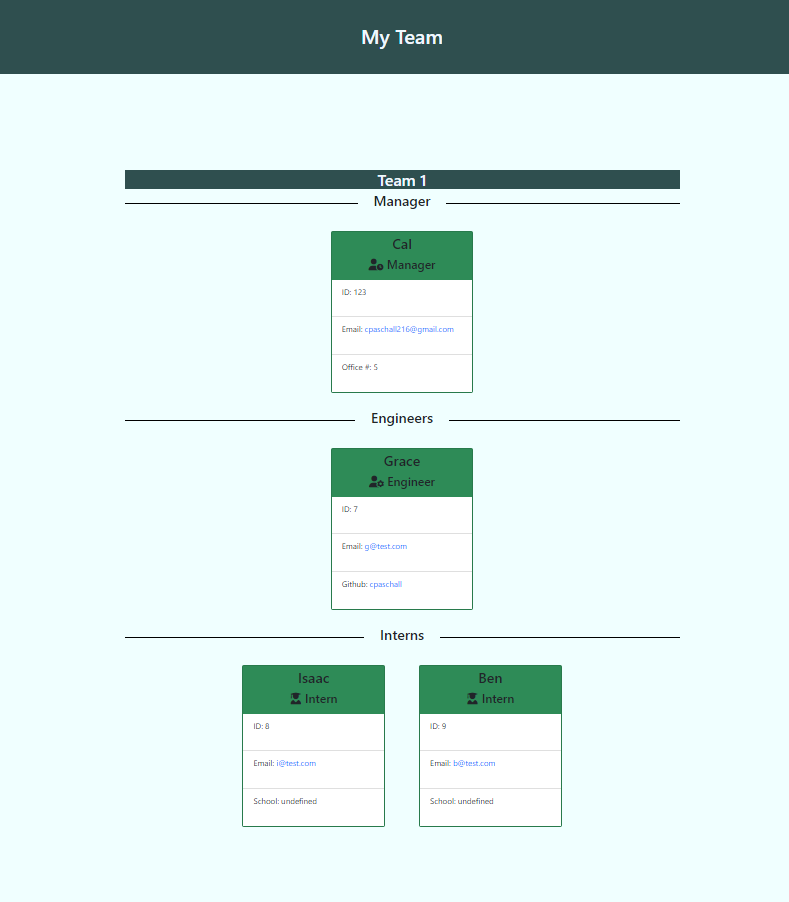
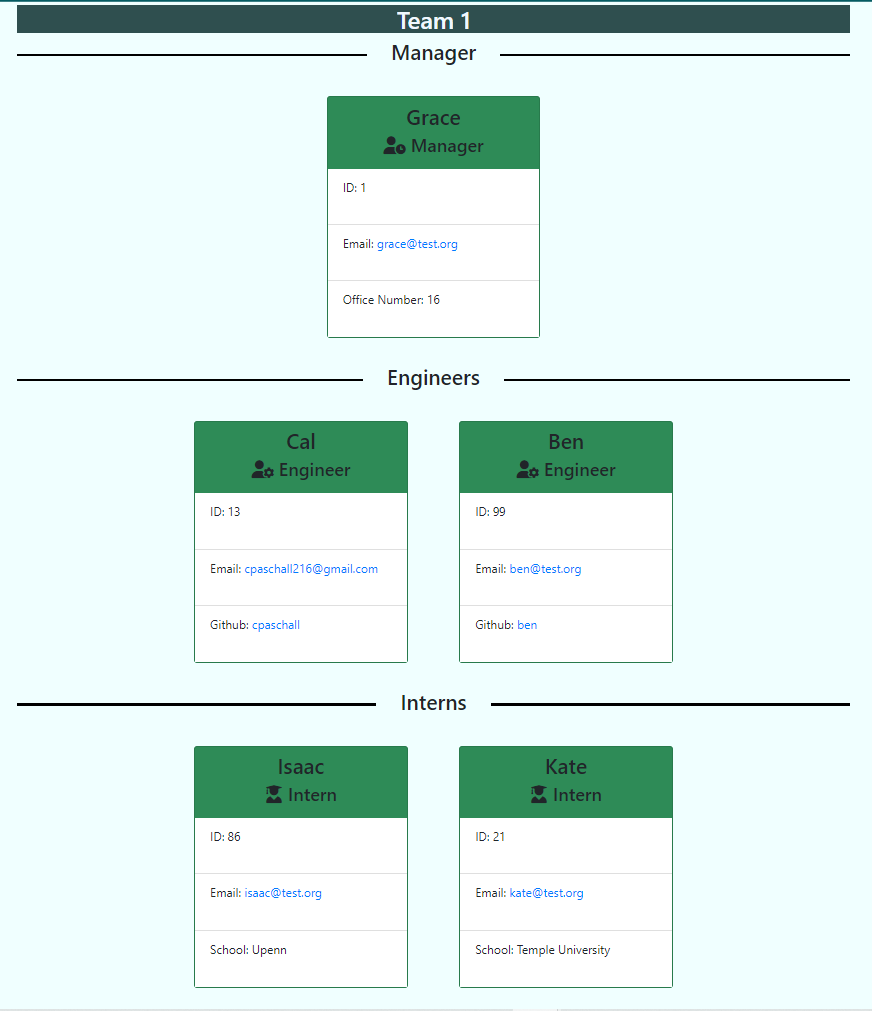
Updating Readme and code refactor for index.js

diff --git a/dist/index.html b/dist/index.html
@@ -26,14 +26,14 @@
                         
         <div class="col-xl-3 card">
             <div class="card-head">
-                <h3>Cal</h3>
+                <h3>Grace</h3>
                 <h4><i class="fa-solid fa-user-clock"></i> Manager</h4>
             </div>
             <div class="card-body">
                 <ul class="list-group list-group-flush">
-                    <li class="list-group-item">ID: 123</li>
-                    <li class="list-group-item">Email: <a href="mailto:cpaschall216@gmail.com">cpaschall216@gmail.com</a></li>
-                    <li class="list-group-item">Office #: 5</li>
+                    <li class="list-group-item">ID: 1</li>
+                    <li class="list-group-item">Email: <a href="mailto:grace@test.org">grace@test.org</a></li>
+                    <li class="list-group-item">Office Number: 16</li>
                 </ul>
             </div>
         </div>
@@ -49,14 +49,28 @@
                         
         <div class="col-xl-3 card">
             <div class="card-head">
-                <h3>Grace</h3>
+                <h3>Cal</h3>
                 <h4><i class="fa-solid fa-user-gear"></i> Engineer</h4>
             </div>
             <div class="card-body">
                 <ul class="list-group list-group-flush">
-                    <li class="list-group-item">ID: 7</li>
-                    <li class="list-group-item">Email: <a href="mailto:g@test.com">g@test.com</a></li>
+                    <li class="list-group-item">ID: 13</li>
+                    <li class="list-group-item">Email: <a href="mailto:cpaschall216@gmail.com">cpaschall216@gmail.com</a></li>
                     <li class="list-group-item">Github: <a href="https://github.com/cpaschall">cpaschall</a></li>
+                </ul>
+            </div>
+        </div>
+        
+        <div class="col-xl-3 card">
+            <div class="card-head">
+                <h3>Ben</h3>
+                <h4><i class="fa-solid fa-user-gear"></i> Engineer</h4>
+            </div>
+            <div class="card-body">
+                <ul class="list-group list-group-flush">
+                    <li class="list-group-item">ID: 99</li>
+                    <li class="list-group-item">Email: <a href="mailto:ben@test.org">ben@test.org</a></li>
+                    <li class="list-group-item">Github: <a href="https://github.com/ben">ben</a></li>
                 </ul>
             </div>
         </div>
@@ -76,23 +90,23 @@
             </div>
             <div class="card-body">
                 <ul class="list-group list-group-flush">
-                    <li class="list-group-item">ID: 8</li>
-                    <li class="list-group-item">Email: <a href="mailto:i@test.com">i@test.com</a></li>
-                    <li class="list-group-item">School: undefined</li>
+                    <li class="list-group-item">ID: 86</li>
+                    <li class="list-group-item">Email: <a href="mailto:isaac@test.org">isaac@test.org</a></li>
+                    <li class="list-group-item">School: Upenn</li>
                 </ul>
             </div>
         </div>
         
         <div class="col-xl-3 card">
             <div class="card-head">
-                <h3>Ben</h3>
+                <h3>Kate</h3>
                 <h4><i class="fa-solid fa-user-graduate"></i> Intern</h4>
             </div>
             <div class="card-body">
                 <ul class="list-group list-group-flush">
-                    <li class="list-group-item">ID: 9</li>
-                    <li class="list-group-item">Email: <a href="mailto:b@test.com">b@test.com</a></li>
-                    <li class="list-group-item">School: undefined</li>
+                    <li class="list-group-item">ID: 21</li>
+                    <li class="list-group-item">Email: <a href="mailto:kate@test.org">kate@test.org</a></li>
+                    <li class="list-group-item">School: Temple University</li>
                 </ul>
             </div>
         </div>

diff --git a/index.js b/index.js
@@ -123,7 +123,7 @@ function init() {
                 anotherQuest();
                 break;
             case("Intern"):
-                const newInt = new Intern(data.employee, data.id, data.email, data.office);
+                const newInt = new Intern(data.employee, data.id, data.email, data.school);
                 allIntData += (render.renderIntern(newInt.name, newInt.getRole(), newInt.id, newInt.email, newInt.school));
                 anotherQuest();
                 break;
